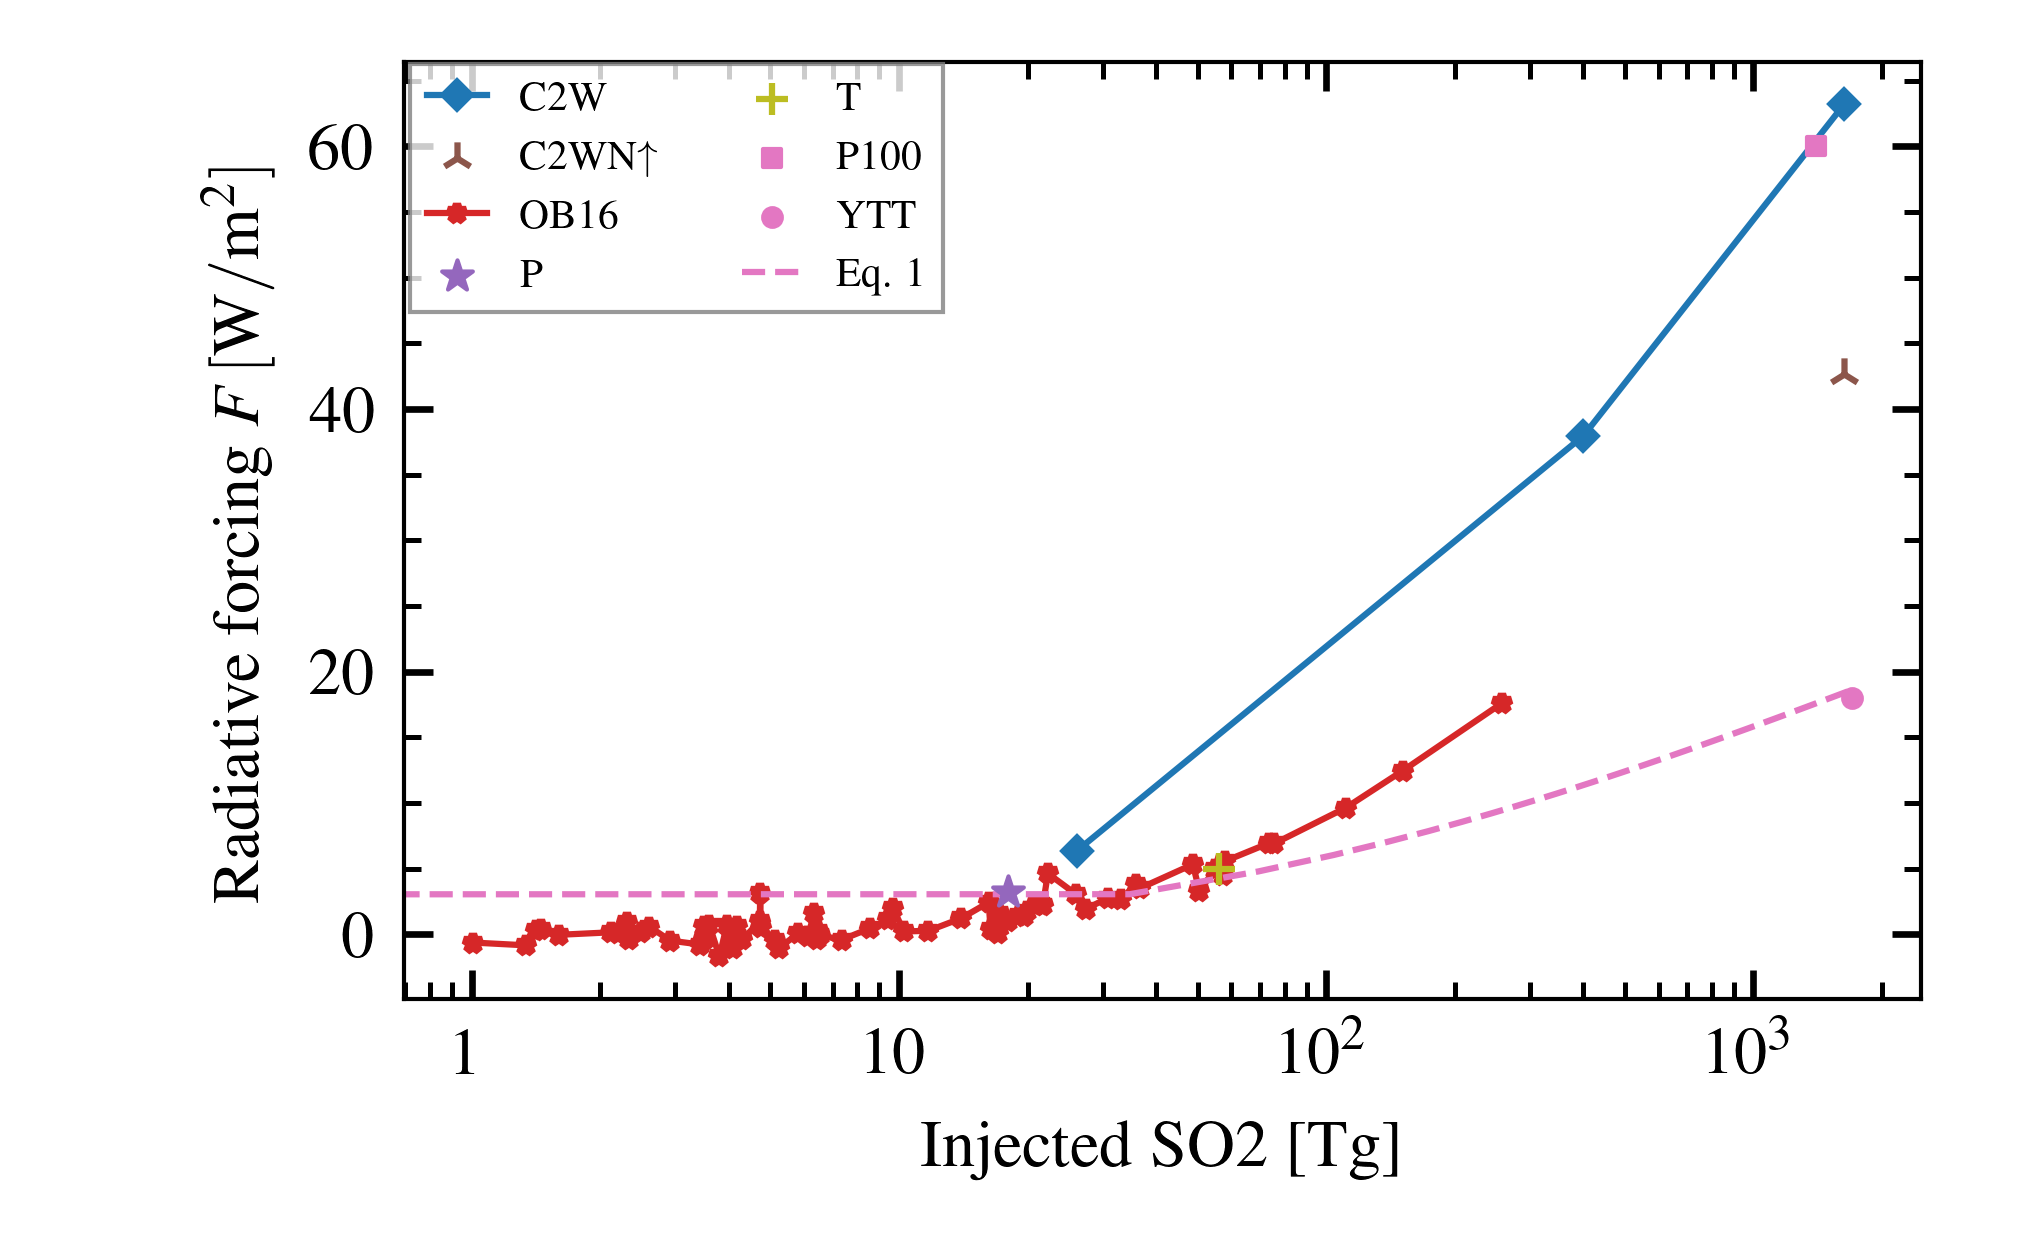
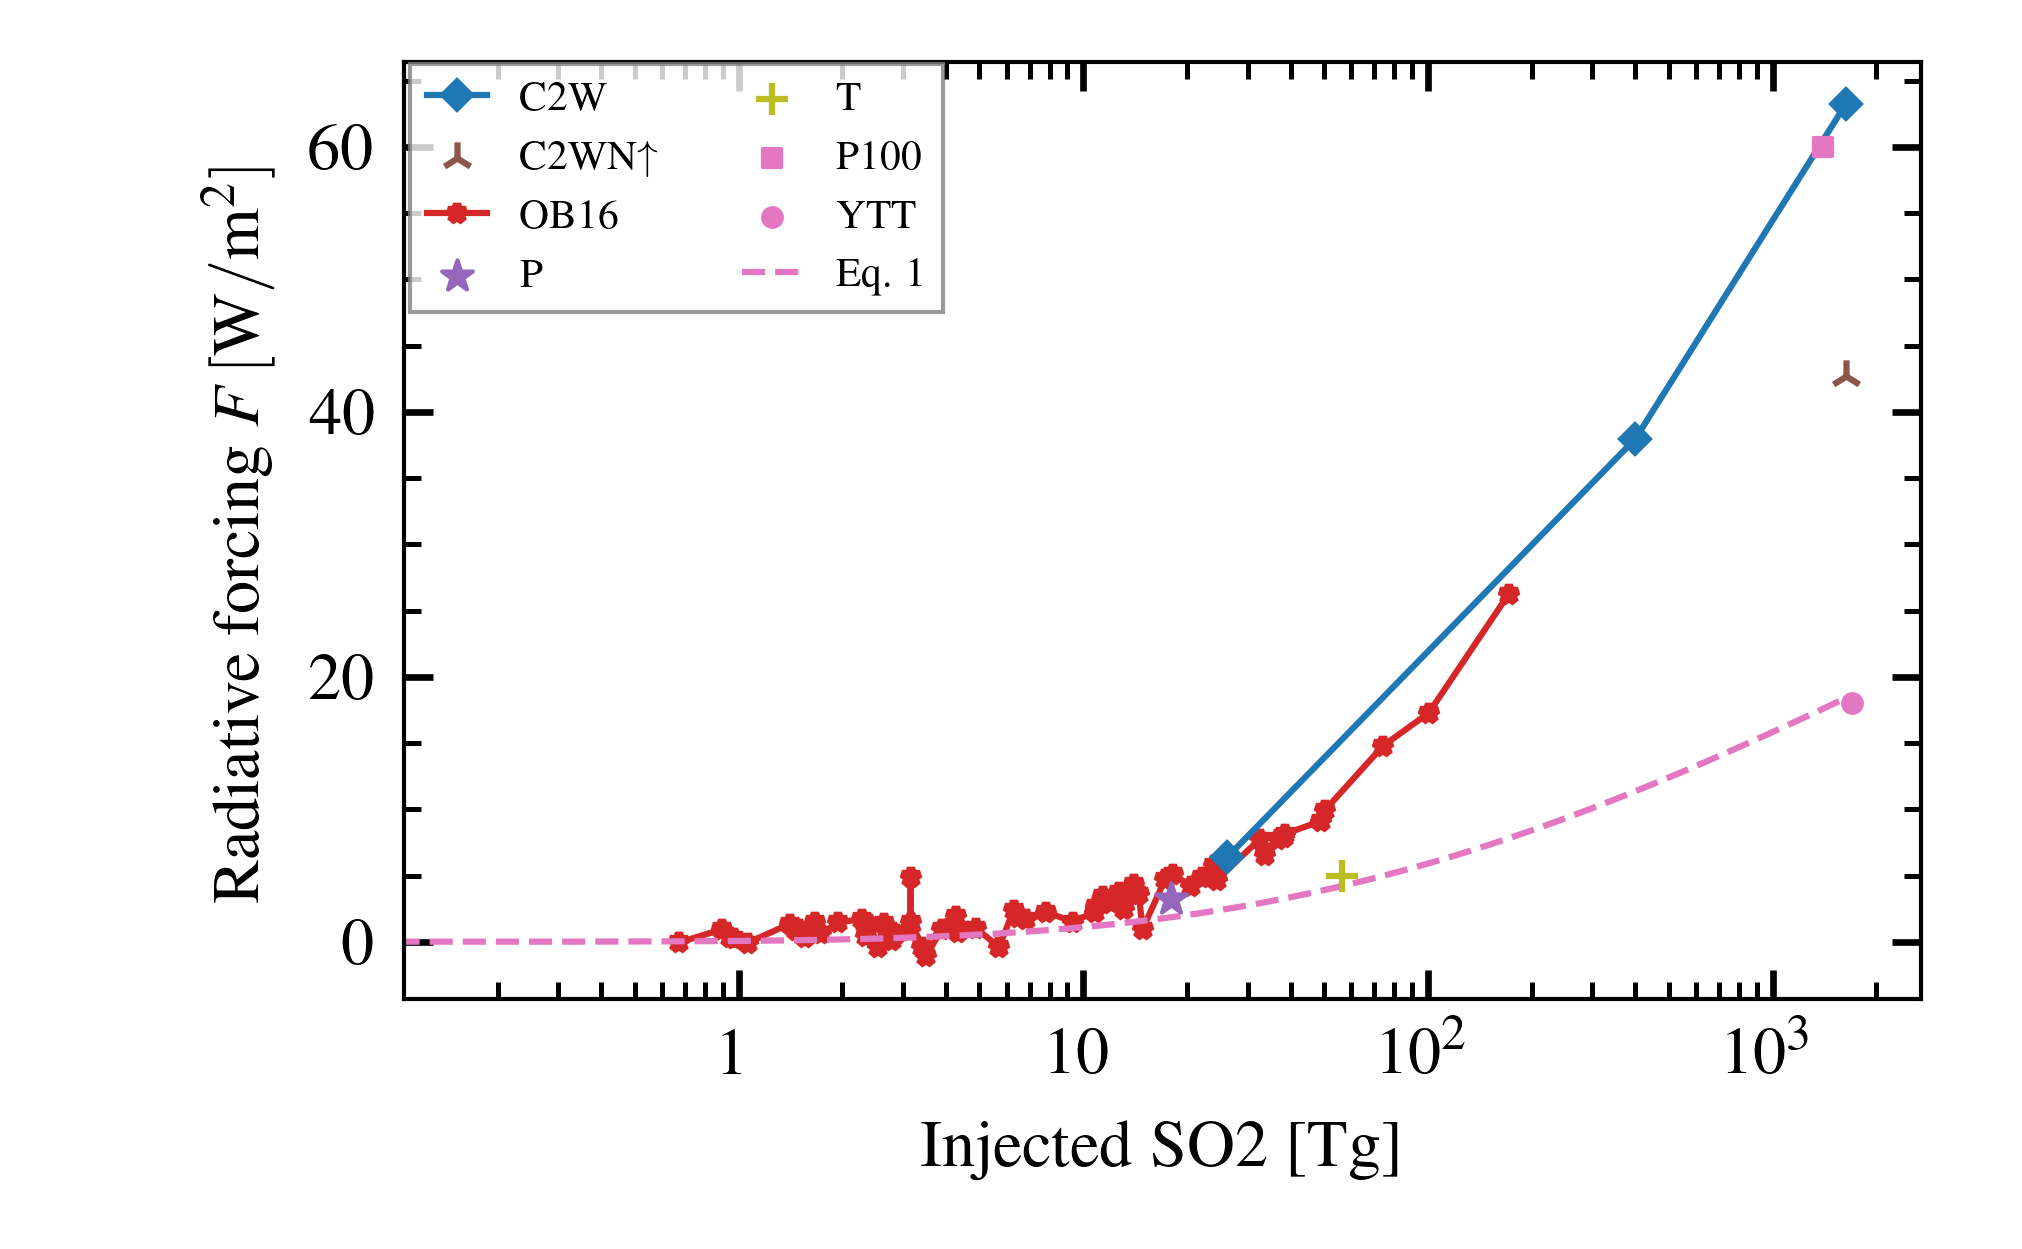
chore!: fix incorrect SO2 values from Otto-Bliesner
They were actually using SO4 (I am pretty sure now), not SO2. So now I
scale the injected aerosols by 2/3, and suddenly everything looks so
much better. Data is aligned, which they should, as we use almost the
same models.

diff --git a/templateV5.tex b/templateV5.tex
@@ -405,7 +405,7 @@ November. The magnitudes vary across three orders of magnitude: \(\SI{26}{\tera\
 \citep[\(\sim10\)--\(\SI{20}{\tera\gram}\);~e.g.][]{timmreck2018} and Mt.\ Tambora
 \citep[\(\sim\SI{56.2}{\tera\gram}\);~e.g.][]{zanchettin2016}, the intermediate case
 (\ac{c2wmp}) is similar to the 1257 Samalas eruption
-\citep[\(\sim{118.8}\)--\(\SI{259.7}{\tera\gram}\);~e.g.][]{toohey2017,ottobliesner2016},
+\citep[\(\sim{118.8}\)--\(\SI{173.1}{\tera\gram}\);~e.g.][]{toohey2017,ottobliesner2016},
 and the largest case (\ac{c2ws}) is similar to the \ac{ytt} eruption
 \citep[\(100\)--\(\SI{10000}{\tera\gram}\);~e.g.][]{jones2005}. They are all located at
 the equator, at \(\SI{0}{\degree N}\), \(\SI{1}{\degree E}\) and \ce{SO2} is injected
@@ -665,12 +665,26 @@ versus \ac{rf} is shown in \cref{fig:so2_vs_toa}, but where the absolute value o
 \ac{rf} is potted along the \(y\)-axis. Just as in \cref{fig:aod_vs_toa_full} we find
 the \ac{cesm2} data points to be heavily damped in \ac{rf} as \iso{} increases. The same
 effect can be seen in the data from \citet{ottobliesner2016} (labelled OB16, red
-points), but here the \ac{rf} tend to bend off sooner, having a smaller \ac{rf} response
-to \iso{} than the \ac{cesm2} data. A description of how the OB16 data was analysed can
-be found in \cref{app:ob16}. The simulations used by \citet{ottobliesner2016} was using
-\ac{cesm1} with a low-top atmosphere (\ac{cam5}). The difference in model complexity
-might thus explain why the \iso{} give weaker \ac{rf} response for
-\citet{ottobliesner2016} than what we find.
+points), while follow much the same path as our \ac{c2w} data. A description of how the
+OB16 data was analysed can be found in \cref{app:ob16}. The simulations used by
+\citet{ottobliesner2016} was using \ac{cesm1} with a low-top atmosphere (\ac{cam5}),
+thus we find that despite the difference in model complexity, similar \acp{rf} are
+obtained by \citet{ottobliesner2016} as what we found.
+
+% \begin{figure*}
+%   \centering
+%   \includegraphics[width=0.95\linewidth]{figures/parameter_scan.png}
+%
+%   \caption{(a) \ac{aod} (b) \ac{rf} and (c) temperature as a function of \iso{}\@. (d)
+%     \ac{rf} and (e) temperature as a function of \ac{aod}. (f) Temperature as a function of
+%     \ac{rf}. \ac{c2w} cases are shown as blue diamonds, the \ac{c2wsn} case is the brown
+%     three-branched twig, OB16 are data from \citet{ottobliesner2016} marked as red
+%     asterisks, the purple star and yellow plus are Mt.\ Pinatubo and Mt.\ Tambora estimates,
+%     the pink square is the one-hundred times Mt.\ Pinatubo super-volcano from
+%     \citet{jones2005} and the pink disk is the \ac{ytt} super-volcano from
+%     \citet{timmreck2010}. A pink stippled line is in (b) used to draw the function from
+%     \cref{eq:niemeier_exponential}}\label{fig:parameter_scan}%
+% \end{figure*}
 
 \begin{figure*}
   \begin{subfigure}{0.5\linewidth}
@@ -1155,18 +1169,20 @@ parameter \(\alpha \) for volcanic forcing in comparison to forcing from for exa
 
 \appendix
 
-\appendixtitle{Otto-Bliesner data}\label{app:ob16}
+\appendixtitle{Otto-Bliesner data analysis}\label{app:ob16}
 
 Data from \citet{ottobliesner2016} are the original input data of \iso{} as used in
 their model simulations, where corresponding \ac{rf} and temperature data are found as
 the value of the time series at the time of an eruption (according to the \iso{} time
 series). Therefore, \ac{rf} and temperature values may be somewhat smaller in
-\cref{fig:so2_vs_toa,fig:so2_vs_temp,fig:toa_vs_temp} than the true value. More on how:
-an ensemble of 5 is used for both \ac{rf} and temperature, and a mean from the 5 is used
-as the de facto \ac{rf} and temperature time series. A control simulation of a single
-time series is used to remove seasonal dependence from the temperature, where the
-control simulation is averaged into one year/one climatology. \ac{rf} have seasonality
-removed in Fourier domain. The forcing (\ce{SO2}) can be downloaded with direct link
+\cref{fig:so2_vs_toa,fig:so2_vs_temp,fig:toa_vs_temp} than their true value.
+Specifically, an ensemble of 5 is used for both \ac{rf} and temperature, and a mean from
+the 5 is used as the de facto \ac{rf} and temperature time series. A control simulation
+of a single time series is used to remove seasonal dependence from the temperature,
+where the control simulation is averaged into a climatology mean. Further, a drift in
+the temperature is removed by subtracting a linear regression fit. \ac{rf} have
+seasonality removed in the Fourier domain. The forcing (\ce{SO2}) can be downloaded with
+direct link
 \url{https://svn-ccsm-inputdata.cgd.ucar.edu/trunk/inputdata/atm/cam/volc/IVI2LoadingLatHeight501-2000_L18_c20100518.nc},
 or found at \url{https://www.cesm.ucar.edu/working-groups/paleo/simulations/ccsm4-lm}
 and \url{https://svn-ccsm-inputdata.cgd.ucar.edu/trunk/inputdata/atm/cam/volc/}
